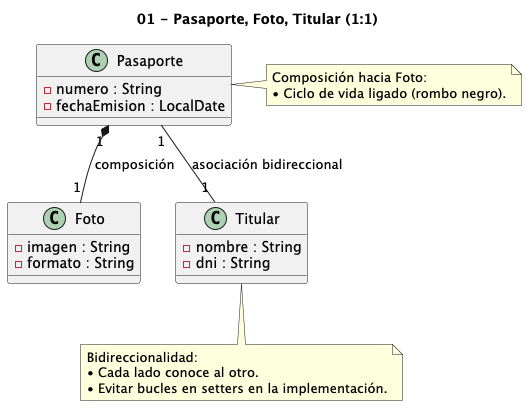
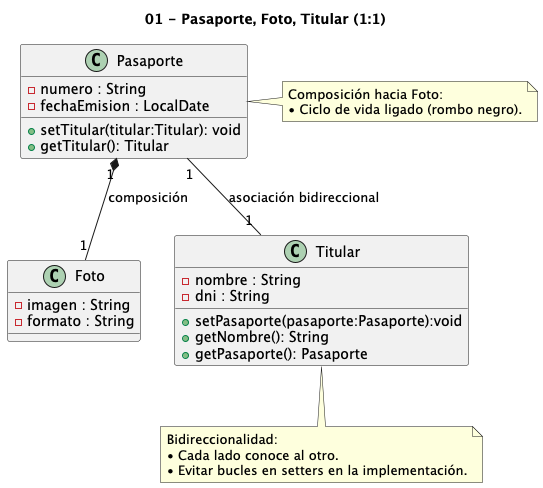
Implemento ejercicio 2 Se crea diagrama correspondiente en formato plantUML Se genera y guarda imágen .png del diagrama Se crean clases java de referencia para demostrar el diagrama

Changed region(s): [[0.0, 0.0887, 1.0, 1.0], [0.2429, 0.0296, 0.7287, 0.0591]]

diff --git a/src/main/java/progra2/utn/uml/domain/celular/Celular.java b/src/main/java/progra2/utn/uml/domain/celular/Celular.java
@@ -1,0 +1,30 @@
+package progra2.utn.uml.domain.celular;
+
+public class Celular {
+    private final String imei;
+    private Bateria bateria;  // agregación (parte puede existir fuera)
+    private Usuario usuario;  // asociación 1:1 (bi)
+
+    public Celular(String imei, Bateria bateria) {
+        this.imei = imei;
+        this.bateria = bateria;
+    }
+
+    public void setUsuario(Usuario nuevo) {
+        if (this.usuario == nuevo) return;
+        Usuario anterior = this.usuario;
+        this.usuario = nuevo;
+
+        if (anterior != null && anterior.getCelular() == this) {
+            anterior.setCelular(null);
+        }
+        if (nuevo != null && nuevo.getCelular() != this) {
+            nuevo.setCelular(this);
+        }
+    }
+
+    public String getImei() { return imei; }
+    public Bateria getBateria() { return bateria; }
+    public void setBateria(Bateria bateria) { this.bateria = bateria; }
+    public Usuario getUsuario() { return usuario; }
+}

diff --git a/src/main/java/progra2/utn/uml/domain/celular/Usuario.java b/src/main/java/progra2/utn/uml/domain/celular/Usuario.java
@@ -1,0 +1,24 @@
+package progra2.utn.uml.domain.celular;
+
+public class Usuario {
+    private final String nombre;
+    private Celular celular; // referencia bidireccional
+
+    public Usuario(String nombre) { this.nombre = nombre; }
+
+    public void setCelular(Celular nuevo) {
+        if (this.celular == nuevo) return;
+        Celular anterior = this.celular;
+        this.celular = nuevo;
+
+        if (anterior != null && anterior.getUsuario() == this) {
+            anterior.setUsuario(null);
+        }
+        if (nuevo != null && nuevo.getUsuario() != this) {
+            nuevo.setUsuario(this);
+        }
+    }
+
+    public String getNombre() { return nombre; }
+    public Celular getCelular() { return celular; }
+}

diff --git a/src/main/java/progra2/utn/uml/domain/celular/Bateria.java b/src/main/java/progra2/utn/uml/domain/celular/Bateria.java
@@ -1,0 +1,15 @@
+package progra2.utn.uml.domain.celular;
+
+public class Bateria {
+    private final String modelo;
+    private int capacidad;
+
+    public Bateria(String modelo, int cargaMah) {
+        this.modelo = modelo;
+        this.capacidad = cargaMah;
+    }
+
+    public String getModelo() { return modelo; }
+    public int getCargaMah() { return capacidad; }
+    public void setCargaMah(int cargaMah) { this.capacidad = cargaMah; }
+}
